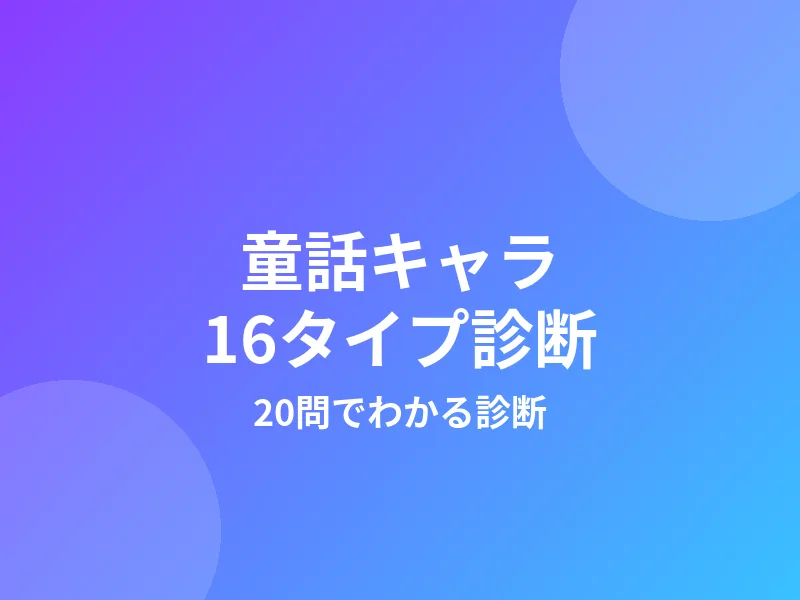
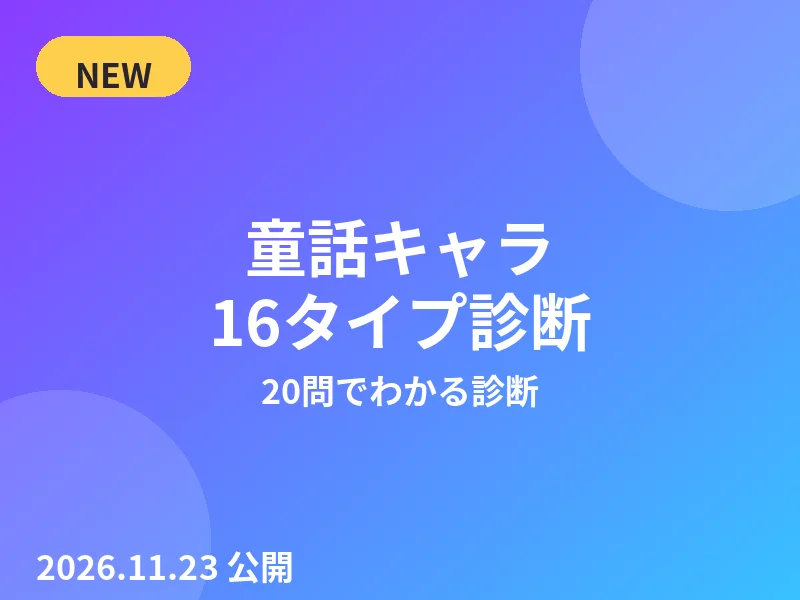
優先順位 配信＞ゲーム＞AI音楽で再編：ヒーロー先頭をMirrativに、ログインボーナス追加、カードを可愛く刷新、NEWと公開日表示

diff --git a/index.html b/index.html
@@ -560,6 +560,43 @@ background:var(--purple);border-radius:99px;padding:3px 9px;white-space:nowrap;
 .face.f-ebi{background:linear-gradient(120deg,#8b3dff,#ff2e88)}
 .face.f-usagori{background:linear-gradient(120deg,#ff783c,#ff2e88)}
 .face.f-fairy{background:linear-gradient(120deg,#8b3dff,#39c2ff)}
+.new-badge{position:absolute;top:10px;left:10px;z-index:2;background:#ffcf4d;color:#2b2430;font-size:11px;font-weight:800;letter-spacing:.14em;border-radius:99px;padding:4px 10px;box-shadow:0 2px 8px rgba(43,36,48,.25)}
+.card{position:relative}
+.work .new-badge{top:8px;left:8px}
+.wdate{display:block;text-align:center;font-size:11px;color:var(--sub);font-weight:700;margin-top:4px;letter-spacing:.04em}
+.storage-updated{position:absolute;top:5.6%;left:0;right:0;text-align:center;font-size:11px;letter-spacing:.14em;color:var(--sub);font-weight:700}
+#liveBtn{position:absolute;left:4%;top:6.2%;z-index:5;display:flex;align-items:center;gap:7px;background:linear-gradient(120deg,var(--pink),var(--purple));color:#fff;font-size:13.5px;font-weight:800;letter-spacing:.04em;border-radius:99px;padding:11px 15px;box-shadow:0 5px 16px rgba(255,46,136,.4);text-decoration:none;transition:transform var(--t-press) var(--ease-out)}
+#liveBtn:active{transform:scale(.94)}
+#liveBtn .live-dot{width:9px;height:9px;border-radius:50%;background:#fff;flex:none;animation:lampBreathe 1.8s ease-in-out infinite}
+.sticker{position:absolute;right:10px;top:10px;z-index:2;width:42px;height:42px;border-radius:50%;background:#fff;box-shadow:0 3px 10px rgba(43,36,48,.25);display:flex;align-items:center;justify-content:center;font-size:22px;transform:rotate(8deg)}
+.card{border:2px solid #ffe3f0;border-radius:20px;overflow:hidden;background:#fff;box-shadow:0 6px 16px rgba(43,36,48,.08);margin-bottom:12px;display:block;text-decoration:none}
+.card .face{border-radius:0}
+.work .obj3d{border-radius:12px}
+.hero-live-badge{position:absolute;top:10px;left:10px;z-index:2;background:var(--pink);color:#fff;font-size:11px;font-weight:800;letter-spacing:.1em;border-radius:99px;padding:5px 11px;box-shadow:0 2px 8px rgba(43,36,48,.25)}
+.mirrativ-updated{font-size:11px;color:var(--sub);font-weight:700}
+.hero-new{position:absolute;top:10px;left:10px;z-index:2;background:#ffcf4d;color:#2b2430;font-size:11px;font-weight:800;letter-spacing:.14em;border-radius:99px;padding:4px 10px;box-shadow:0 2px 8px rgba(43,36,48,.25)}
+.meta .date{font-size:11px;color:var(--sub);font-weight:700;white-space:nowrap}
+#bonusBtn{position:absolute;right:4%;top:6.2%;z-index:5;display:flex;align-items:center;gap:7px;background:#ffcf4d;color:#2b2430;font-size:13px;font-weight:800;letter-spacing:.04em;border-radius:99px;padding:10px 14px;box-shadow:0 4px 14px rgba(43,36,48,.22);transition:transform var(--t-press) var(--ease-out)}
+#bonusBtn:active{transform:scale(.94)}
+#bonusBtn .bonus-dot{width:9px;height:9px;border-radius:50%;background:var(--pink);flex:none}
+#bonusBtn.claimed{background:#fff;color:var(--sub);box-shadow:0 2px 8px rgba(43,36,48,.14)}
+#bonusBtn.claimed .bonus-dot{background:#d8ccd4}
+.bonus-stats{display:flex;gap:8px;margin:12px 0}
+.bonus-stat{flex:1;background:#fff0f7;border:1.5px solid #ffd0e4;border-radius:14px;padding:10px 8px;text-align:center}
+.bonus-stat .n{font-size:22px;font-weight:800;color:#d81b74;line-height:1.1}
+.bonus-stat .l{font-size:11px;font-weight:800;letter-spacing:.08em;color:var(--sub);margin-top:3px}
+.bonus-stamps{display:flex;gap:6px;margin:10px 0 14px}
+.bonus-stamp{flex:1;aspect-ratio:1;border-radius:12px;border:1.5px dashed var(--line);display:flex;flex-direction:column;align-items:center;justify-content:center;font-size:11px;font-weight:800;color:var(--sub);background:#fff}
+.bonus-stamp.got{border-style:solid;border-color:#ffd0e4;background:#fff0f7;color:#d81b74}
+.bonus-stamp.today{border-color:var(--pink)}
+.bonus-stamp .s-emoji{font-size:18px;line-height:1.2}
+.bonus-claim{display:block;width:100%;text-align:center;background:var(--pink);color:#fff;font-weight:800;font-size:16px;letter-spacing:.06em;border-radius:999px;padding:14px 16px;cursor:pointer;transition:transform var(--t-press) var(--ease-out)}
+.bonus-claim:active{transform:scale(.97)}
+.bonus-claim[disabled]{background:#e8e0ea;color:var(--sub);cursor:default;transform:none}
+.bonus-reward{margin-top:14px;border:1.5px solid #ffd0e4;background:#fff6fa;border-radius:14px;padding:12px 14px;font-size:14.5px;line-height:1.7;display:none}
+.bonus-reward.show{display:block;animation:bonusPop .45s var(--ease-out) 1}
+@keyframes bonusPop{0%{transform:scale(.92);opacity:0}60%{transform:scale(1.04)}100%{transform:scale(1);opacity:1}}
+.bonus-next{font-size:12px;color:var(--sub);line-height:1.7;margin-top:8px;text-align:center}
 
 /* テレビパネル先頭の「まず見て」：実物サムネイルのカード */
 .pick-label{font-size:11px;letter-spacing:.2em;color:var(--pink);font-weight:800;margin:2px 0 10px}
@@ -698,7 +735,7 @@ transition:transform var(--t-press) var(--ease-out);
 <h1 class="name">八乙女<b>さき<span class="p">や</span></b></h1>
 <div class="g-info">
 <div class="g-role">ミラティブ配信者</div>
-<div class="g-chips"><span>歌</span><span>ゲーム</span><span>雑談</span><span>全部自作</span></div>
+<div class="g-chips"><span>配信</span><span>ゲーム</span><span>AI音楽</span><span>雑談</span><span>全部自作</span></div>
 <div class="g-live"><span class="dot"></span>毎晩22時 配信中</div>
 </div>
 <button id="enterBtn" type="button">入る</button>
@@ -713,17 +750,23 @@ transition:transform var(--t-press) var(--ease-out);
 <div class="hero-frame" id="heroFrame">
 <div class="hero-view">
 <div class="hero-track" id="heroTrack">
-<a class="hero-slide" draggable="false" href="https://youtube.com/watch?v=i6zgNb9RhZI" target="_blank" rel="noopener" aria-label="曲・MV：そばにいて">
-<img src="assets/parts/hero-song-real.webp" alt="" draggable="false">
-<span class="hero-cap"><span class="tag pink">曲・MV</span><span class="hero-ttl">そばにいて</span></span>
+<a class="hero-slide" draggable="false" href="https://www.mirrativ.com/user/150564080" target="_blank" rel="noopener" aria-label="配信：Mirrativ">
+<img src="assets/parts/hero-live.webp" alt="" draggable="false" loading="lazy" decoding="async">
+<span class="hero-live-badge">毎晩22時 配信</span>
+<span class="hero-cap"><span class="tag pink">配信</span><span class="hero-ttl">Mirrativ 配信</span></span>
+</a>
+<a class="hero-slide" draggable="false" href="https://sakiyayoi.github.io/usagori3d/" target="_blank" rel="noopener" aria-label="ゲーム：うさぎ、ゴリラを殴る。3D">
+<img src="assets/parts/hero-usagori-real.webp" alt="" draggable="false">
+<span class="hero-new">NEW</span>
+<span class="hero-cap"><span class="tag">ゲーム</span><span class="hero-ttl">うさぎ、ゴリラを殴る。3D</span></span>
 </a>
 <a class="hero-slide" draggable="false" href="https://sakiyayoi.github.io/chodoii-yukagen/" target="_blank" rel="noopener" aria-label="ゲーム：ちょうどいい湯かげん">
 <img src="assets/parts/hero-yukagen-real.webp" alt="" draggable="false" loading="lazy" decoding="async">
 <span class="hero-cap"><span class="tag">ゲーム</span><span class="hero-ttl">ちょうどいい湯かげん</span></span>
 </a>
-<a class="hero-slide" draggable="false" href="https://www.mirrativ.com/user/150564080" target="_blank" rel="noopener" aria-label="配信：Mirrativ">
-<img src="assets/parts/hero-live.webp" alt="" draggable="false" loading="lazy" decoding="async">
-<span class="hero-cap"><span class="tag pink">配信</span><span class="hero-ttl">Mirrativ 配信</span></span>
+<a class="hero-slide" draggable="false" href="https://youtube.com/watch?v=i6zgNb9RhZI" target="_blank" rel="noopener" aria-label="曲・MV：そばにいて">
+<img src="assets/parts/hero-song-real.webp" alt="" draggable="false">
+<span class="hero-cap"><span class="tag pink">曲・MV</span><span class="hero-ttl">そばにいて</span></span>
 </a>
 </div>
 </div>
@@ -731,9 +774,10 @@ transition:transform var(--t-press) var(--ease-out);
 <button class="hero-arrow next" id="heroNext" type="button" aria-label="次のポスター"><span>›</span></button>
 </div>
 <div class="hero-dots" id="heroDots">
-<button type="button" aria-label="ポスター1：そばにいて"></button>
-<button type="button" aria-label="ポスター2：ちょうどいい湯かげん"></button>
-<button type="button" aria-label="ポスター3：Mirrativ 配信"></button>
+<button type="button" aria-label="ポスター1：Mirrativ 配信"></button>
+<button type="button" aria-label="ポスター2：うさぎ、ゴリラを殴る。3D"></button>
+<button type="button" aria-label="ポスター3：ちょうどいい湯かげん"></button>
+<button type="button" aria-label="ポスター4：そばにいて"></button>
 </div>
 </div>
 
@@ -796,6 +840,8 @@ transition:transform var(--t-press) var(--ease-out);
 <span class="ring"></span>
 <img src="assets/parts/post.webp" alt="" loading="lazy" decoding="async">
 </button>
+<a id="liveBtn" href="https://www.mirrativ.com/user/150564080" target="_blank" rel="noopener" aria-label="Mirrativ配信：毎晩22時"><span class="live-dot" aria-hidden="true"></span>Mirrativ 毎晩22時</a>
+<button id="bonusBtn" type="button" data-panel="bonus" aria-label="今日のログインボーナス"><span class="bonus-dot" aria-hidden="true"></span>今日のボーナス</button>
 <div id="tapmark" aria-hidden="true"></div>
 </div>
 </main>
@@ -804,6 +850,7 @@ transition:transform var(--t-press) var(--ease-out);
 <div id="storageView" aria-hidden="true">
 <div id="storageStage">
 <div class="storage-name">さきやの <b>作品置き場</b></div>
+<div class="storage-updated">最終更新 2026.11.23｜新作2本追加</div>
 <div id="storageTabs" aria-label="カテゴリ"></div>
 <div id="shelves"></div>
 <button id="storageDoor" type="button" aria-label="部屋にもどる">
@@ -820,6 +867,15 @@ transition:transform var(--t-press) var(--ease-out);
 <div class="grab"></div>
 <button class="closeBtn" type="button" data-close aria-label="閉じる">✕</button>
 <h2>テレビ ｜ <b>配信と動画</b></h2>
+<div class="pick-label">まず配信で会おう</div>
+<a class="card card-first" href="https://www.mirrativ.com/user/150564080" target="_blank" rel="noopener">
+<div class="face f-live">
+<img src="assets/parts/hero-live.webp" alt="八乙女さきや Mirrativ配信カード（2026.11.23時点）" draggable="false">
+<span class="hero-live-badge">毎晩22時 配信</span>
+<span class="play" aria-hidden="true"></span>
+</div>
+<div class="meta"><span class="tag pink">配信</span><span>Mirrativ｜八乙女さきや</span><span class="mirrativ-updated">カード 2026.11.23時点</span><span class="go">会いにいく →</span></div>
+</a>
 <div class="pick-label">まず見て</div>
 <a class="card card-first" href="https://www.youtube.com/watch?v=Am6hFXN9PB4" target="_blank" rel="noopener">
 <div class="face f-clip">
@@ -827,13 +883,6 @@ transition:transform var(--t-press) var(--ease-out);
 <span class="play" aria-hidden="true"></span>
 </div>
 <div class="meta"><span class="tag pink">切り抜き</span><span class="clip-ttl">雪山にスーツで出張!? ホラゲで働き方を心配し始めた</span><span class="go">見る →</span></div>
-</a>
-<a class="card" href="https://www.mirrativ.com/user/150564080" target="_blank" rel="noopener">
-<div class="face f-live">
-<svg width="30" height="30" viewBox="0 0 30 30"><circle cx="15" cy="15" r="6" fill="#fff"/><path d="M7 8 a11 11 0 0 0 0 14 M23 8 a11 11 0 0 1 0 14" stroke="#fff" stroke-width="2.4" fill="none" stroke-linecap="round"/></svg>
-<span class="ttl">Mirrativ 配信</span>
-</div>
-<div class="meta"><span class="tag pink">配信</span><span>毎晩22時から配信｜八乙女さきや の配信ページ</span><span class="go">ひらく →</span></div>
 </a>
 <a class="card" href="https://www.youtube.com/@yaotome_sakiya" target="_blank" rel="noopener">
 <div class="face f-yt">
@@ -854,16 +903,19 @@ transition:transform var(--t-press) var(--ease-out);
 <button class="closeBtn" type="button" data-close aria-label="閉じる">✕</button>
 <h2>ゲーム機 ｜ <b>あそぶ</b></h2>
 <a class="card" href="https://sakiyayoi.github.io/usagori3d/" target="_blank" rel="noopener">
+<span class="new-badge">NEW</span>
 <div class="face f-usagori">
 <svg width="34" height="34" viewBox="0 0 34 34"><circle cx="13" cy="20" r="6" fill="#fff"/><path d="M10 15 q-2-7 1-9 q3 1 2 7 M16 15 q1-7 4-7 q2 2-1 8" fill="#fff"/></svg>
 <span class="ttl">うさぎ、ゴリラを殴る。3D</span>
+<span class="sticker" aria-hidden="true">🐰</span>
 </div>
-<div class="meta"><span class="tag">ゲーム</span><span>巨大ゴリラと75秒ボス戦</span><span class="go">あそぶ →</span></div>
+<div class="meta"><span class="tag">ゲーム</span><span>巨大ゴリラと75秒ボス戦</span><span class="date">2026.11.23</span><span class="go">あそぶ →</span></div>
 </a>
 <a class="card" href="https://sakiyayoi.github.io/chodoii-yukagen/" target="_blank" rel="noopener">
 <div class="face f-yu">
 <svg width="34" height="34" viewBox="0 0 34 34"><path d="M4 24 q5-4 10 0 t10 0 t6 0" stroke="#fff" stroke-width="2.6" fill="none" stroke-linecap="round"/><path d="M10 16 q2-5 5-5 M19 13 q3-3 6-1" stroke="#fff" stroke-width="2.2" fill="none" stroke-linecap="round" opacity=".8"/></svg>
 <span class="ttl">ちょうどいい湯かげん</span>
+<span class="sticker" aria-hidden="true">🦆</span>
 </div>
 <div class="meta"><span class="tag">ゲーム</span><span>お湯の温度を合わせる</span><span class="go">あそぶ →</span></div>
 </a>
@@ -871,6 +923,7 @@ transition:transform var(--t-press) var(--ease-out);
 <div class="face f-kani">
 <svg width="34" height="34" viewBox="0 0 34 34"><ellipse cx="17" cy="21" rx="8" ry="5.5" fill="#fff"/><circle cx="12" cy="16" r="2" fill="#fff"/><circle cx="22" cy="16" r="2" fill="#fff"/><path d="M6 15 q-4-4 0-7 q5 2 3 7 M28 15 q4-4 0-7 q-5 2-3 7" fill="#fff"/></svg>
 <span class="ttl">カニ飛ばし</span>
+<span class="sticker" aria-hidden="true">🦀</span>
 </div>
 <div class="meta"><span class="tag">ゲーム</span><span>カニをぶっ飛ばす</span><span class="go">あそぶ →</span></div>
 </a>
@@ -878,15 +931,18 @@ transition:transform var(--t-press) var(--ease-out);
 <div class="face f-ebi">
 <svg width="34" height="34" viewBox="0 0 34 34"><text x="17" y="25" font-size="21" font-weight="800" fill="#fff" text-anchor="middle">?</text></svg>
 <span class="ttl">EBI KANI?</span>
+<span class="sticker" aria-hidden="true">🦐</span>
 </div>
 <div class="meta"><span class="tag">ゲーム</span><span>エビかカニか</span><span class="go">あそぶ →</span></div>
 </a>
 <a class="card" href="https://sakiyayoi.github.io/fairytale-type16/" target="_blank" rel="noopener">
+<span class="new-badge">NEW</span>
 <div class="face f-fairy">
 <svg width="34" height="34" viewBox="0 0 34 34"><path d="M17 4 l2.5 7.5 L27 14 l-7.5 2.5 L17 24 l-2.5-7.5 L7 14 l7.5-2.5 Z" fill="#fff"/></svg>
 <span class="ttl">童話キャラ16タイプ診断</span>
+<span class="sticker" aria-hidden="true">⭐</span>
 </div>
-<div class="meta"><span class="tag">診断</span><span>20問でわかる童話診断</span><span class="go">あそぶ →</span></div>
+<div class="meta"><span class="tag">診断</span><span>20問でわかる童話診断</span><span class="date">2026.11.23</span><span class="go">あそぶ →</span></div>
 </a>
 </section>
 
@@ -1010,6 +1066,24 @@ transition:transform var(--t-press) var(--ease-out);
 </form>
 </section>
 
+<!-- ログインボーナス：毎日触れる日替わり報酬（端末に記録） -->
+<section class="panel" id="panel-bonus" aria-label="今日のボーナス">
+<div class="grab"></div>
+<button class="closeBtn" type="button" data-close aria-label="閉じる">✕</button>
+<h2>今日のボーナス ｜ <b>まいにち特典</b></h2>
+<p class="note" id="bonusToday">今日の日付を確認中…</p>
+<div class="bonus-stats">
+<div class="bonus-stat"><div class="n" id="bonusStreak">0</div><div class="l">連続日数</div></div>
+<div class="bonus-stat"><div class="n" id="bonusPoints">0</div><div class="l">応援ポイント</div></div>
+<div class="bonus-stat"><div class="n" id="bonusTotal">0</div><div class="l">通算受取</div></div>
+</div>
+<div class="desk-sec">直近7日間のスタンプ</div>
+<div class="bonus-stamps" id="bonusStamps"></div>
+<button class="bonus-claim" id="bonusClaim" type="button">ボーナスを受け取る</button>
+<div class="bonus-reward" id="bonusReward" role="status"></div>
+<p class="bonus-next">毎日0時に切り替わります。7日連続で特別報酬、ポイントは100ごとに称号が上がります。この端末にだけ記録されます。</p>
+</section>
+
 <script>
 (function(){
 "use strict";
@@ -1017,7 +1091,7 @@ var gate = document.getElementById('gate');
 var room = document.getElementById('room');
 var scrim = document.getElementById('scrim');
 var entered = false;
-var PANELS = ['tv','game','speaker','desk','profile','post'];
+var PANELS = ['tv','game','speaker','desk','profile','post','bonus'];
 
 function panelEl(id){ return document.getElementById('panel-' + id);}
 
@@ -1150,7 +1224,7 @@ if (Date.now() < suppressUntil){ e.preventDefault(); e.stopPropagation(); suppre
 // 初期スライドは入口に合わせる（game→湯かげん、live→Mirrativ）
 (function(){
 var from = new URLSearchParams(location.search).get('from');
-heroGo(from === 'game' ? 1 : from === 'live' ? 2 : 0);
+heroGo(from === 'game' ? 1 : from === 'live' ? 0 : 0);
 })();
 
 /* ---------- ミニキャラ：独立オブジェクト（状態機械） ---------- */
@@ -1702,14 +1776,14 @@ var storageOpen = false, pushedStorage = false, storageTourTimer = 0;
    cat: game=ゲームケース / music=CDケース / site=本・アルバム
    featured: true で「おすすめ」欄入り / date: 'YYYY-MM-DD' があれば最新欄は日付順、無ければ並び順（後ろ＝新しい） */
 var WORKS = [
-{id:'yukagen', title:'ちょうどいい湯かげん', kind:'ゲーム', cat:'game', tag:'', featured:true, href:'https://sakiyayoi.github.io/chodoii-yukagen/', img:'assets/parts/work-yukagen.webp'},
+{id:'yukagen', title:'ちょうどいい湯かげん', kind:'ゲーム', cat:'game', tag:'', featured:true, date:'2026-11-18', href:'https://sakiyayoi.github.io/chodoii-yukagen/', img:'assets/parts/work-yukagen.webp'},
 {id:'kani', title:'カニ飛ばし', kind:'ゲーム', cat:'game', tag:'', href:'https://sakiyayoi.github.io/sakiya-crab-flight-play/', img:'assets/parts/work-kani.webp'},
-{id:'ebikani', title:'EBI KANI?', kind:'ゲーム', cat:'game', tag:'', href:'https://sakiyayoi.github.io/ebi-kani/', img:'assets/parts/work-ebi.webp'},
+{id:'ebikani', title:'EBI KANI?', kind:'ゲーム', cat:'game', tag:'', date:'2026-10-18', href:'https://sakiyayoi.github.io/ebi-kani/', img:'assets/parts/work-ebi.webp'},
 {id:'sobaniite', title:'そばにいて', kind:'曲・MV', cat:'music', tag:'pink', featured:true, href:'https://youtube.com/watch?v=i6zgNb9RhZI', img:'assets/parts/hero-song-real.webp'},
 {id:'karappo', title:'空っぽの愛', kind:'曲', cat:'music', tag:'pink', href:'https://youtube.com/watch?v=ABf9efnTBhI', img:'assets/parts/work-ai.webp'},
 {id:'anniv', title:'1周年記念サイト', kind:'サイト', cat:'site', tag:'dark', href:'https://sakiya-anniversary-album-v2.sakiyayoi.chatgpt.site', img:'assets/parts/work-anniv.webp'},
-{id:'usagori', title:'うさぎ、ゴリラを殴る。3D', kind:'ゲーム', cat:'game', tag:'', featured:true, date:'2026-11-23', href:'https://sakiyayoi.github.io/usagori3d/', img:'assets/parts/work-usagori.webp'},
-{id:'fairytale', title:'童話キャラ16タイプ診断', kind:'診断', cat:'site', tag:'', date:'2026-11-23', href:'https://sakiyayoi.github.io/fairytale-type16/', img:'assets/parts/work-fairytale.webp'}
+{id:'usagori', title:'うさぎ、ゴリラを殴る。3D', kind:'ゲーム', cat:'game', tag:'', featured:true, isNew:true, date:'2026-11-23', href:'https://sakiyayoi.github.io/usagori3d/', img:'assets/parts/work-usagori.webp'},
+{id:'fairytale', title:'童話キャラ16タイプ診断', kind:'診断', cat:'site', tag:'', isNew:true, date:'2026-11-23', href:'https://sakiyayoi.github.io/fairytale-type16/', img:'assets/parts/work-fairytale.webp'}
 ];
 var KANI_SVG = '<svg width="34" height="34" viewBox="0 0 34 34"><ellipse cx="17" cy="21" rx="8" ry="5.5" fill="#fff"/><circle cx="12" cy="16" r="2" fill="#fff"/><circle cx="22" cy="16" r="2" fill="#fff"/><path d="M6 15 q-4-4 0-7 q5 2 3 7 M28 15 q4-4 0-7 q-5 2-3 7" fill="#fff"/></svg>';
 var CAT_LABEL = {game:'ゲーム', music:'曲・MV', site:'サイト'};
@@ -1725,11 +1799,13 @@ var face = w.img
 : '<span class="wface f-kani">' + KANI_SVG + '<span class="fttl">' + w.title + '</span></span>';
 var disc = cat === 'music' ? '<span class="disc" aria-hidden="true"></span>' : '';
 var cheer = w.id ? '<button type="button" class="cheer" data-cheer="' + w.id + '" aria-label="' + w.title + 'を応援する"><span class="c-heart" aria-hidden="true">♥</span>応援<span class="cheer-n">…</span></button>' : '';
+var badge = w.isNew ? '<span class="new-badge">NEW</span>' : '';
+var wdate = w.date ? '<span class="wdate">' + w.date.replace(/-/g,'.') + ' 公開</span>' : '';
 return '<div class="work">'
 + '<a class="wlink" href="' + w.href + '" target="_blank" rel="noopener" aria-label="' + w.title + '">'
-+ '<span class="obj3d o-' + form + '">' + disc + '<span class="cover">' + face + '</span></span>'
++ '<span class="obj3d o-' + form + '">' + disc + '<span class="cover">' + face + '</span></span>' + badge
 + '<span class="wttl">' + w.title + '</span>'
-+ '<span class="wtag"><span class="tag ' + w.tag + '">' + w.kind + '</span></span></a>'
++ '<span class="wtag"><span class="tag ' + w.tag + '">' + w.kind + '</span></span>' + wdate + '</a>'
 + cheer + '</div>';
 }
 function shelvesHTML(list){
@@ -2043,6 +2119,40 @@ status.classList.remove('ok');
 });
 });
 }
+
+
+/* ---------- ログインボーナス（端末ローカル記録） ---------- */
+var BONUS_KEY='sakiya_bonus_v1';
+var BONUS_LINES=['今日も来てくれてありがとう。今夜22時の配信で会おうね。','スンスンが喜んでる。ポイントゲット！','いい調子。そのまま作品も触ってみて。','レアな日かも。今日は運がいいよ。'];
+function bonusTodayStr(){ var d=new Date(); return d.getFullYear()+'-'+String(d.getMonth()+1).padStart(2,'0')+'-'+String(d.getDate()).padStart(2,'0'); }
+function bonusLoad(){ try{ return JSON.parse(localStorage.getItem(BONUS_KEY))||{}; }catch(e){ return {}; } }
+function bonusSave(s){ try{ localStorage.setItem(BONUS_KEY, JSON.stringify(s)); }catch(e){} }
+function bonusState(){ var s=bonusLoad(); return {last:s.last||'', streak:s.streak||0, points:s.points||0, total:s.total||0, days:s.days||[]}; }
+function bonusRender(){
+  var st=bonusState(); var today=bonusTodayStr(); var claimed=st.last===today;
+  var t=document.getElementById('bonusToday'); if(t) t.textContent='今日は '+today.replace(/-/g,'.')+'。'+(claimed?'今日の分は受取済みだよ。':'まだ受け取れるよ！');
+  document.getElementById('bonusStreak').textContent=st.streak;
+  document.getElementById('bonusPoints').textContent=st.points;
+  document.getElementById('bonusTotal').textContent=st.total;
+  var wrap=document.getElementById('bonusStamps'); var html='';
+  for(var i=6;i>=0;i--){ var d=new Date(); d.setDate(d.getDate()-i); var ds=d.getFullYear()+'-'+String(d.getMonth()+1).padStart(2,'0')+'-'+String(d.getDate()).padStart(2,'0'); var got=st.days.indexOf(ds)>=0; html+='<div class="bonus-stamp'+(got?' got':'')+(i===0?' today':'')+'"><span class="s-emoji">'+(got?'★':'・')+'</span>'+(d.getMonth()+1)+'/'+d.getDate()+'</div>'; }
+  wrap.innerHTML=html;
+  var btn=document.getElementById('bonusClaim'); btn.disabled=claimed; btn.textContent=claimed?'受取済み｜明日また来てね':'ボーナスを受け取る';
+  var bb=document.getElementById('bonusBtn'); if(bb) bb.classList.toggle('claimed', claimed);
+}
+document.getElementById('bonusClaim').addEventListener('click', function(){
+  var st=bonusState(); var today=bonusTodayStr(); if(st.last===today){ bonusRender(); return; }
+  var y=new Date(); y.setDate(y.getDate()-1); var ys=y.getFullYear()+'-'+String(y.getMonth()+1).padStart(2,'0')+'-'+String(y.getDate()).padStart(2,'0');
+  st.streak = (st.last===ys) ? st.streak+1 : 1;
+  var pts = st.streak>=7 ? 100 : [10,20,30,50][Math.floor(Math.random()*4)];
+  st.points+=pts; st.total+=1; st.last=today; st.days=(st.days||[]).concat([today]).slice(-30);
+  bonusSave(st);
+  var line = st.streak>=7 ? '7日連続！特別報酬100ポイント！' : BONUS_LINES[Math.floor(Math.random()*BONUS_LINES.length)];
+  var r=document.getElementById('bonusReward'); r.innerHTML='<b>+'+pts+'ポイント</b>（'+st.streak+'日連続）<br>'+line+'<br><a href="https://www.mirrativ.com/user/150564080" target="_blank" rel="noopener" style="color:var(--pink);font-weight:800">今夜22時 Mirrativで会う →</a>';
+  r.classList.remove('show'); void r.offsetWidth; r.classList.add('show');
+  bonusRender();
+});
+bonusRender();
 
 document.getElementById('enterBtn').addEventListener('click', enter);
 document.querySelectorAll('[data-panel]:not(#chara)').forEach(function(el){
